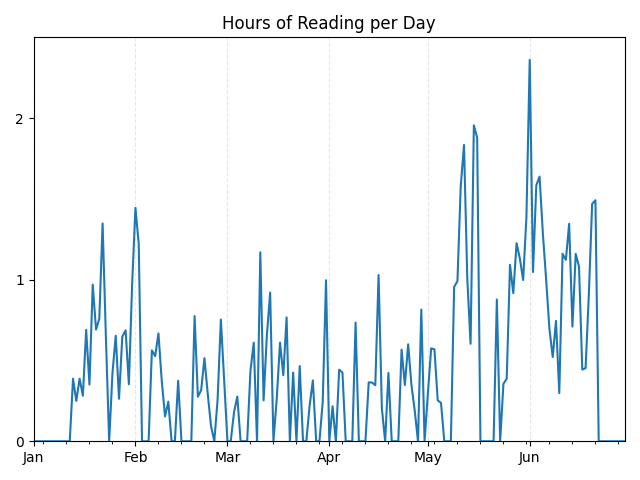
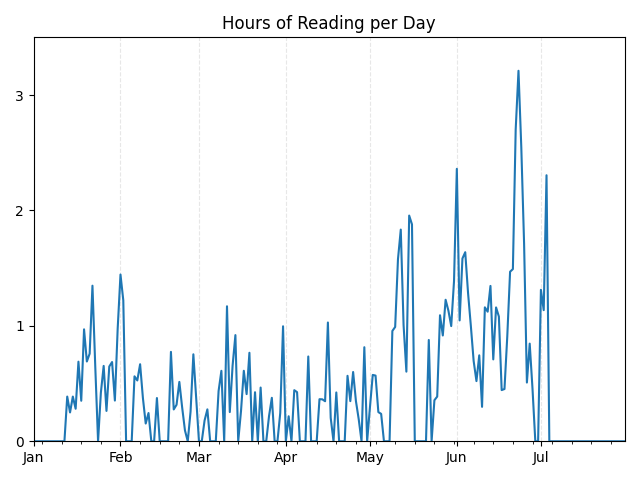
update graph

Changed region(s): [[0.0938, 0.125, 0.9375, 0.9688]]

diff --git a/analysis/test_pds.py b/analysis/test_pds.py
@@ -26,8 +26,8 @@ hours_per_day = (
 ax = hours_per_day.plot(
     title='Hours of Reading per Day',
     legend=False,
-    yticks=[0, 1, 2],
-    ylim=(0, 2.5),
+    yticks=[0, 1, 2, 3],
+    ylim=(0, 3.5),
 )
 
 ax.xaxis.set_major_locator(mdates.MonthLocator())